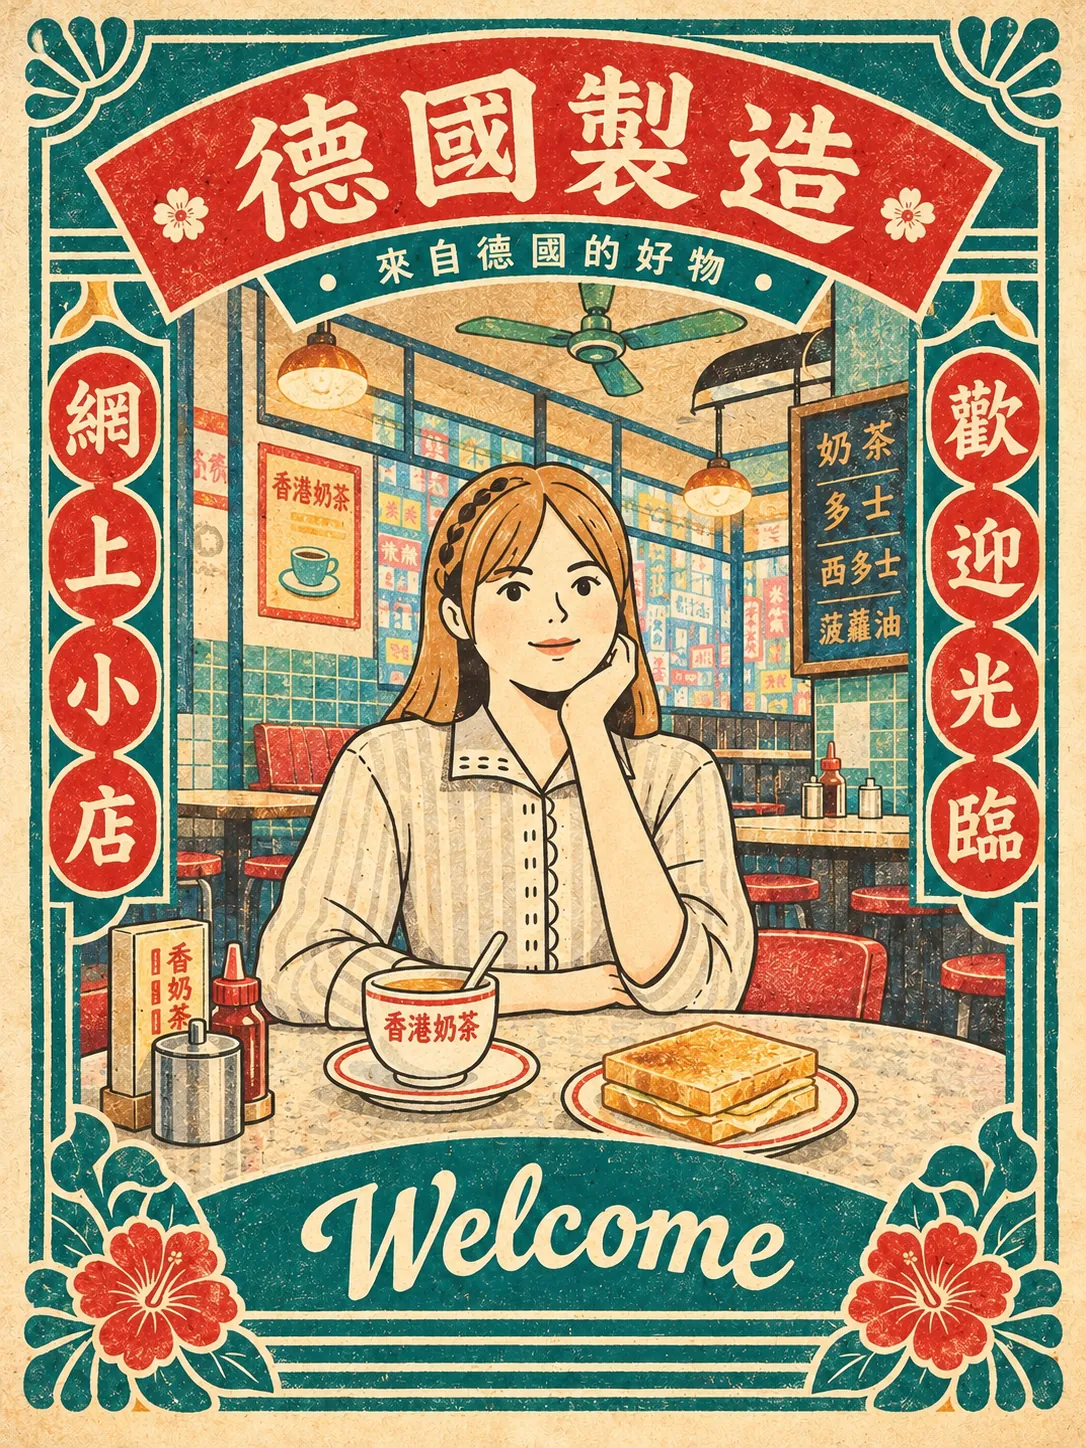
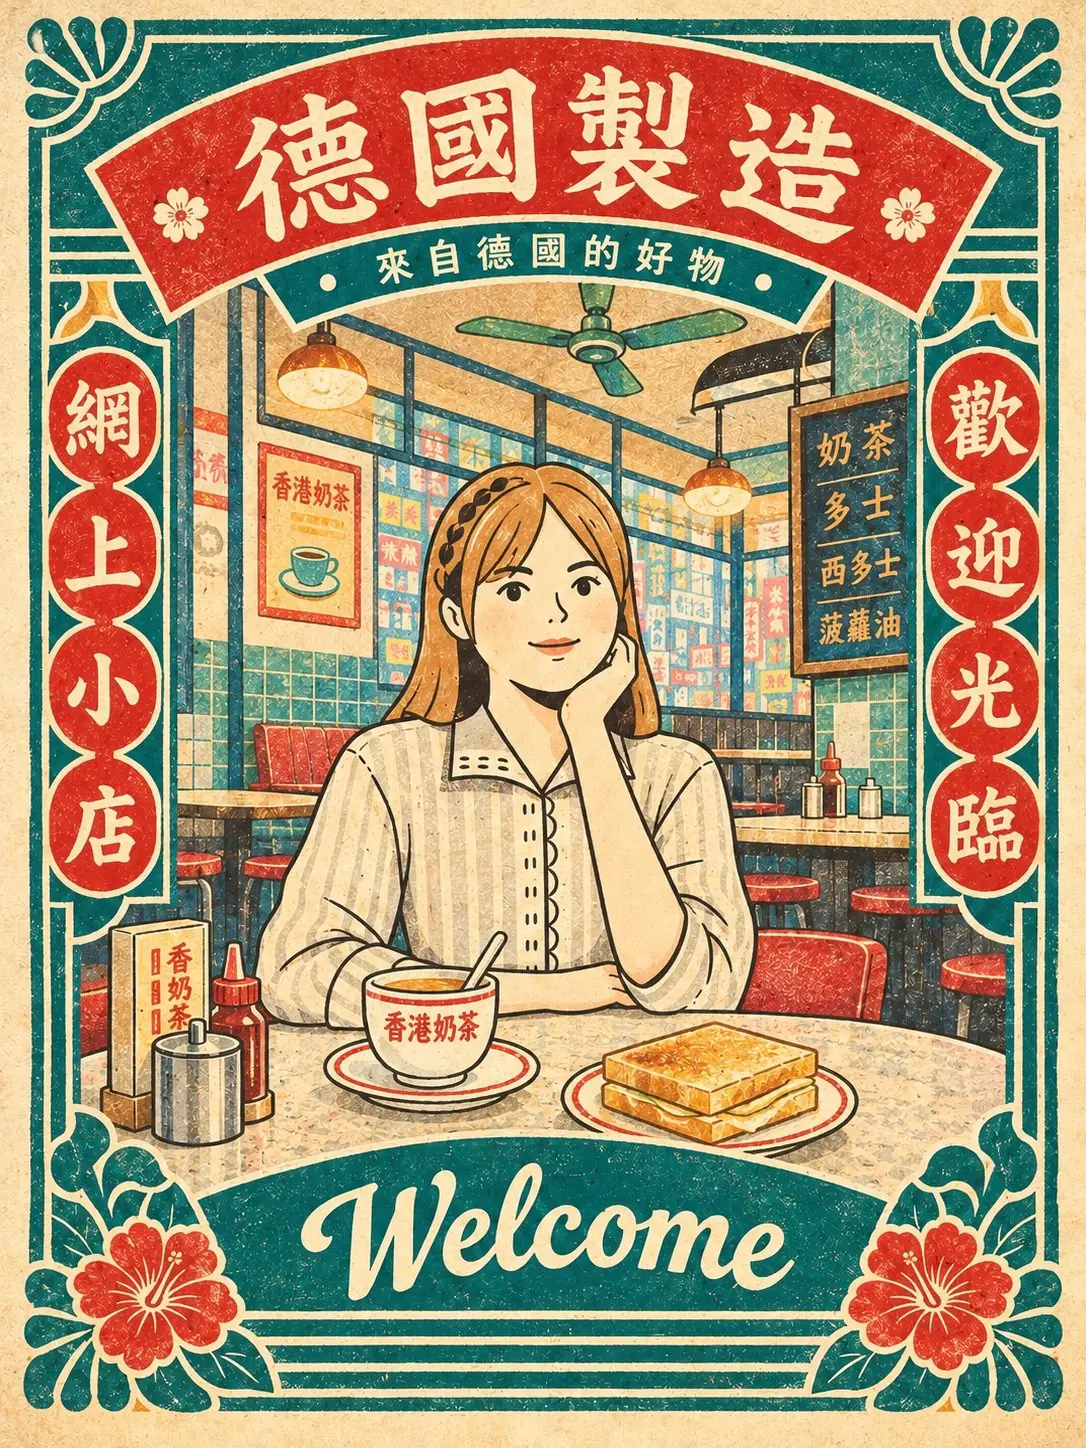
Hero poster: smaller picture for phones, load it first

diff --git a/home/templates/home/index.html b/home/templates/home/index.html
@@ -6,9 +6,11 @@
   <div class="row align-items-center g-5">
     <div class="col-md-5">
       <picture>
-        <source srcset="{% static 'images/hero-poster.webp' %}" type="image/webp">
+        <source type="image/webp"
+                srcset="{% static 'images/hero-poster-800.webp' %} 800w, {% static 'images/hero-poster.webp' %} 1086w"
+                sizes="(min-width: 768px) 40vw, 100vw">
         <img src="{% static 'images/hero-poster.jpg' %}" class="hero-poster img-fluid"
-             width="1086" height="1448"
+             width="1086" height="1448" fetchpriority="high"
              alt="Hand-drawn poster: a girl in a Hong Kong cha chaan teng with milk tea and toast, with the words 德國製造 and Welcome">
       </picture>
     </div>
